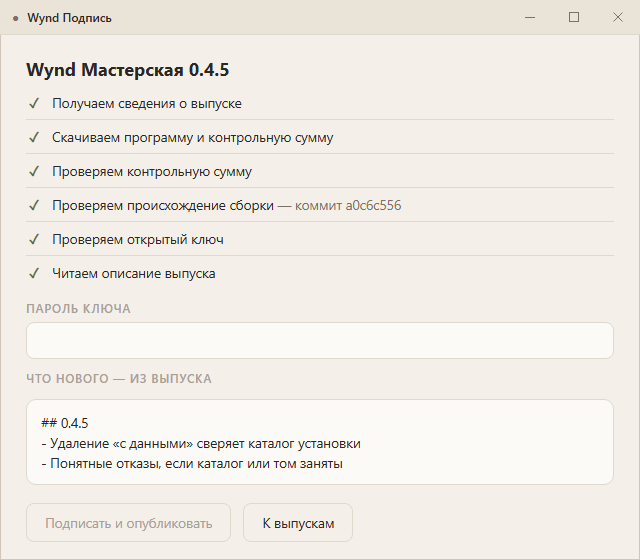
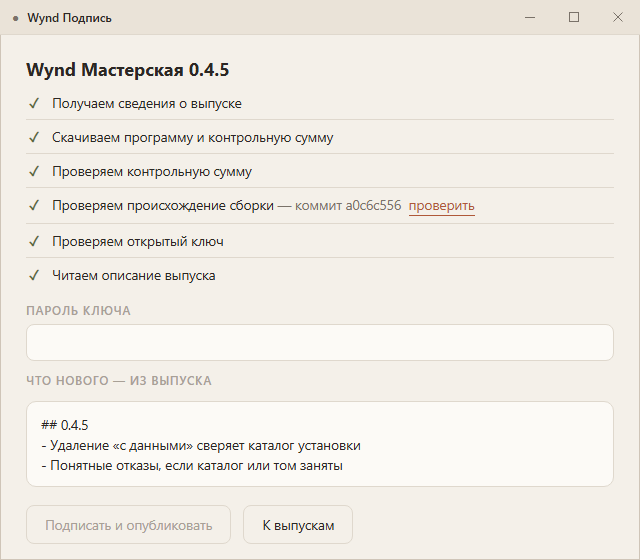
Подпись: 12в принят — ссылка «проверить» на удостоверение сборки

Changed region(s): [[0.0312, 0.6375, 0.9375, 0.9714], [0.0312, 0.3643, 0.9375, 0.5161], [0.0312, 0.5464, 0.2188, 0.5768]]

diff --git a/web/src/lib/components/workshop/StepList.svelte b/web/src/lib/components/workshop/StepList.svelte
@@ -2,6 +2,7 @@
 	import MarkRow from '$ui/workshop/MarkRow.svelte';
 	import MarkRows from '$ui/workshop/MarkRows.svelte';
 	import Meter from '$ui/forms/Meter.svelte';
+	import TextButton from '$ui/forms/TextButton.svelte';
 
 	// Ход работы Мастерской (план 54): установка, обновление, бэкап, переезд.
 	// Шаги приходят из Go (internal/workshop, StepState).
@@ -12,18 +13,23 @@
 		note?: string;
 		latest?: string;
 		latest_note?: string;
+		// link — действие в строке шага, например «проверить» удостоверение
+		// сборки в «Подписи»; нажимает его onlink, сама StepList ничего не открывает.
+		link?: { label: string; url: string };
 	};
 
 	let {
 		steps,
 		meter = false,
 		class: className = '',
-		style = ''
+		style = '',
+		onlink
 	}: {
 		steps: Step[];
 		meter?: boolean;
 		class?: string;
 		style?: string;
+		onlink?: (url: string) => void;
 	} = $props();
 
 	function mark(step: Step): string {
@@ -44,6 +50,7 @@
 			dim={step.status === 'pending'}
 		>
 			{step.title}{#if step.note}&nbsp;<span class="ins-dim">— {step.note}</span>{/if}
+			{#if step.link}&nbsp;<TextButton class="link under" onclick={() => step.link && onlink?.(step.link.url)}>{step.link.label}</TextButton>{/if}
 			{#if step.latest}<div class="ins-step-latest ins-mono">{step.latest}</div>{/if}
 			{#if step.latest_note}<div class="ins-dim ins-step-note">{step.latest_note}</div>{/if}
 		</MarkRow>

diff --git a/cmd/wynd-signer/frontend/src/App.svelte b/cmd/wynd-signer/frontend/src/App.svelte
@@ -269,6 +269,12 @@
 	const productName = $derived(check?.name ?? selectedRelease?.name ?? '');
 	const exeFile = $derived(check?.exe ?? selectedRelease?.exe ?? '');
 	const fileName = $derived(filePath.slice(Math.max(filePath.lastIndexOf('\\'), filePath.lastIndexOf('/')) + 1));
+	// Ссылка «проверить» в строке шага удостоверения сборки (12в).
+	const checkStepsShown = $derived(checkSteps.map((s) =>
+		s.id === 'attestation' && check?.attestation
+			? { ...s, link: { label: 'проверить', url: check.attestation } }
+			: s
+	));
 </script>
 
 <svelte:window onfocus={() => { if (screen === 'list' && st && !listing) void list(); }} />
@@ -359,7 +365,7 @@
 		{:else if screen === 'release'}
 			<!-- Проверки, пароль, подпись и итог остаются на одном экране. -->
 			<h2>{productName} {version}</h2>
-			<StepList steps={checkSteps} />
+			<StepList steps={checkStepsShown} onlink={(url) => void backend().OpenLink(url)} />
 			{#if checkError}<Notice tone="bad" alert>{checkError}</Notice>{/if}
 			{#if check?.problem}<Notice tone="bad" alert>{check.problem}. Такой exe подписывать нельзя.</Notice>{/if}
 			{#if signSteps.length}<StepList steps={signSteps} />{/if}

diff --git a/cmd/wynd-signer/frontend/mock/mock.js b/cmd/wynd-signer/frontend/mock/mock.js
@@ -84,6 +84,7 @@ const checks = {
     sum_ok: true,
     commit: "6b5964e3",
     attest_ok: true,
+    attestation: "https://github.com/mixeme/wynd/attestations",
     key_in_release: true,
     notes:
       "## 0.3.1\n\n- Служебный порт окна отвечает только ему\n- Чужие страницы не читают ответы",
@@ -108,6 +109,7 @@ const checks = {
     sum_ok: true,
     commit: "a0c6c556",
     attest_ok: true,
+    attestation: "https://github.com/mixeme/wynd/attestations",
     key_in_release: true,
     notes:
       "## 0.4.5\n\n- Удаление «с данными» сверяет каталог установки\n- Понятные отказы, если каталог или том заняты",

diff --git a/cmd/wynd-signer/frontend/src/api.ts b/cmd/wynd-signer/frontend/src/api.ts
@@ -54,6 +54,8 @@ export interface Check {
 	sum_ok: boolean;
 	commit?: string;
 	attest_ok: boolean;
+	// attestation — страница удостоверений сборки: куда ведёт «проверить».
+	attestation?: string;
 	notes?: string;
 	problem?: string;
 	steps: Step[];

diff --git a/internal/signing/release.go b/internal/signing/release.go
@@ -70,6 +70,13 @@ func (g GitHub) ReleaseURL(tag string) string {
 	return "https://github.com/" + g.Repo + "/releases/tag/" + tag
 }
 
+// AttestationURL — страница удостоверений сборки репозитория: по ней окно
+// даёт ссылку «проверить» на экране выпуска (12в), как полоса обновления
+// Мастерской ведёт на удостоверение сборки.
+func (g GitHub) AttestationURL() string {
+	return "https://github.com/" + g.Repo + "/attestations"
+}
+
 // ErrNoGh — программы gh нет.
 var ErrNoGh = errors.New("нет программы gh (GitHub CLI): поставьте её и войдите — gh auth login")
 
@@ -173,7 +180,9 @@ type Check struct {
 	// Commit — коммит из удостоверения сборки.
 	Commit string `json:"commit,omitempty"`
 	// AttestOK — exe собран GitHub Actions из этого тега (gh attestation verify).
-	AttestOK bool   `json:"attest_ok"`
+	AttestOK bool `json:"attest_ok"`
+	// Attestation — страница удостоверений сборки: куда ведёт «проверить».
+	Attestation string `json:"attestation,omitempty"`
 	Notes    string `json:"notes,omitempty"`
 	// SelfUpdate — программа с самообновлением: в её сборке должен быть ключ.
 	SelfUpdate bool `json:"self_update"`
@@ -236,7 +245,7 @@ func (g GitHub) FetchWithProgress(ctx context.Context, tag string, report func(P
 	if err != nil {
 		return nil, err
 	}
-	c = &Check{Product: prod.ID, Name: prod.Name, Exe: prod.Exe, Tag: tag, Draft: draft, SelfUpdate: prod.Key != "", dir: dir, exe: filepath.Join(dir, prod.Exe)}
+	c = &Check{Product: prod.ID, Name: prod.Name, Exe: prod.Exe, Tag: tag, Draft: draft, SelfUpdate: prod.Key != "", Attestation: g.AttestationURL(), dir: dir, exe: filepath.Join(dir, prod.Exe)}
 	if _, err := g.gh(ctx, "release", "download", tag, "-R", g.Repo, "-D", dir, "-p", prod.Exe, "-p", prod.Exe+".sha256", "--clobber"); err != nil {
 		c.Close()
 		return nil, fmt.Errorf("скачать выпуск не получилось: %w", err)

diff --git a/internal/signing/release_test.go b/internal/signing/release_test.go
@@ -342,6 +342,9 @@ func TestSignReleasePublication(t *testing.T) {
 			if c.Problem != "" || c.Draft != tt.draft || c.KeyInRelease != tt.keyInTag {
 				t.Fatalf("unexpected check: %+v", c)
 			}
+			if c.Attestation != "https://github.com/test/wynd/attestations" {
+				t.Fatalf("ссылка «проверить» на удостоверение сборки: %q", c.Attestation)
+			}
 			assertProgress(t, checks, "check", "release,download,checksum,attestation,key,notes", "")
 			if len(c.Steps) != 6 || c.Steps[5].Status != "done" {
 				t.Fatalf("final check snapshot: %+v", c.Steps)

diff --git a/docs/testing/signer-frames-2026-11-17/README.md b/docs/testing/signer-frames-2026-11-17/README.md
@@ -6,12 +6,12 @@
 | --- | --- | --- |
 | `12a-klyucha-net.png` | 12а — ключа ещё нет: пароль и повтор, «Где хранить ключ», «Создать ключ» (неяркая, пока пароль короче 12 знаков) | `mock.html?key=missing` |
 | `12b-vypuski.png` | 12б — список выпусков: ключ и «другой», черновики с «подписать», опубликованный с подписью, «Подписать файл на этом компьютере» | `mock.html?products=workshop` |
-| `12v-proverka-chernovika.png` | 12в — выпуск 0.4.5 открыт: этапы проверки пройдены, поле пароля, «Что нового — из выпуска», «Подписать и опубликовать» | `...&open=workshop-v0.4.5` |
+| `12v-proverka-chernovika.png` | 12в — выпуск 0.4.5 открыт: этапы проверки пройдены, у удостоверения сборки ссылка «проверить» на страницу удостоверений GitHub, поле пароля, «Что нового — из выпуска», «Подписать и опубликовать» | `...&open=workshop-v0.4.5` |
 | `12g-podpisan-opublikovan.png` | 12г — подпись прошла и выпуск опубликован; кадр у конца экрана, где итог и кнопки «Открыть выпуск» / «К выпускам» (экран длиннее окна) | `...&open=workshop-v0.4.5&pass=…&scroll=1` |
 | `12d-fayl-podpisan.png` | 12д — подписан файл на этом компьютере: путь .sig, «Показать в папке», «К выпускам» | `mock.html?file=1` |
 
 Старые кадры 12а–12д в галерее — черновики и утверждённой основой не являются. Приёмка — только явными словами владельца; после неё галерея `docs/visual/workshop.html` обновляется этими снимками.
 
-**Приёмка по одному:** 12а принят 18.11 вместе с уточнением текста — вместо «Программа принимает обновление…» стоит «программы Wynd, которые обновляются сами. Установленная копия принимает обновление…»; снимок 12а переснят из стенда и заменён. 12б принят 18.11 без замечаний. Остальные кадры ждут приёмки.
+**Приёмка по одному:** 12а принят 18.11 вместе с уточнением текста — вместо «Программа принимает обновление…» стоит «программы Wynd, которые обновляются сами. Установленная копия принимает обновление…»; снимок 12а переснят из стенда и заменён. 12б принят 18.11 без замечаний. 12в принят 18.11 со ссылкой «проверить» у удостоверения сборки (12в переснят). Остальные кадры ждут приёмки.
 
 Снимки сделаны из текущего дерева (коммит-основа — `31695133`), стенд после съёмки остановлен.
